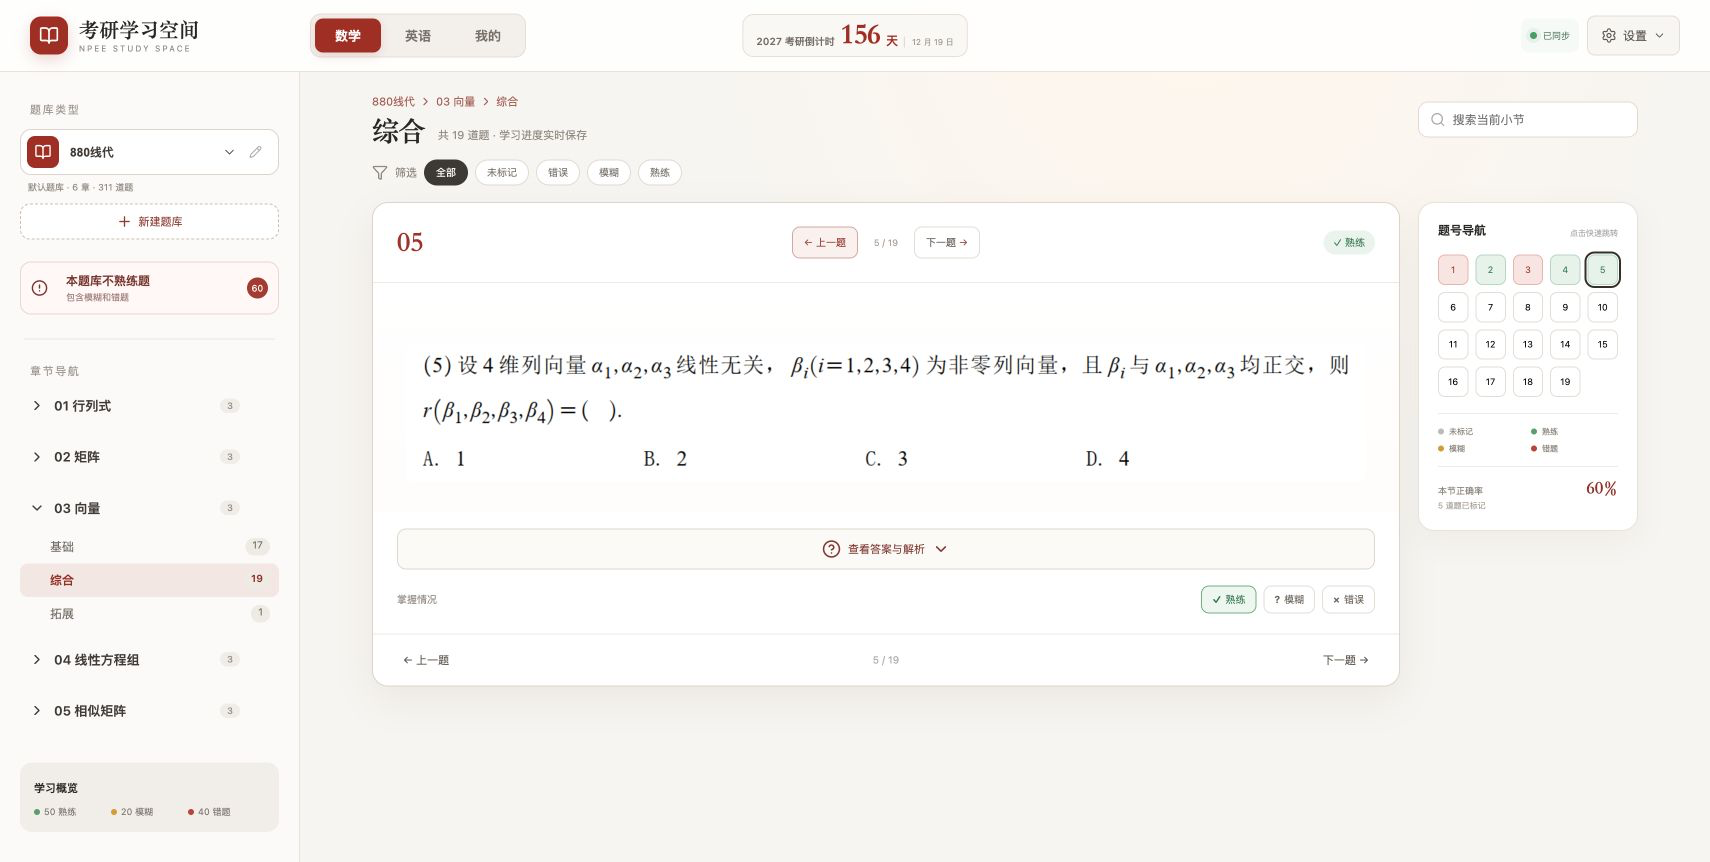
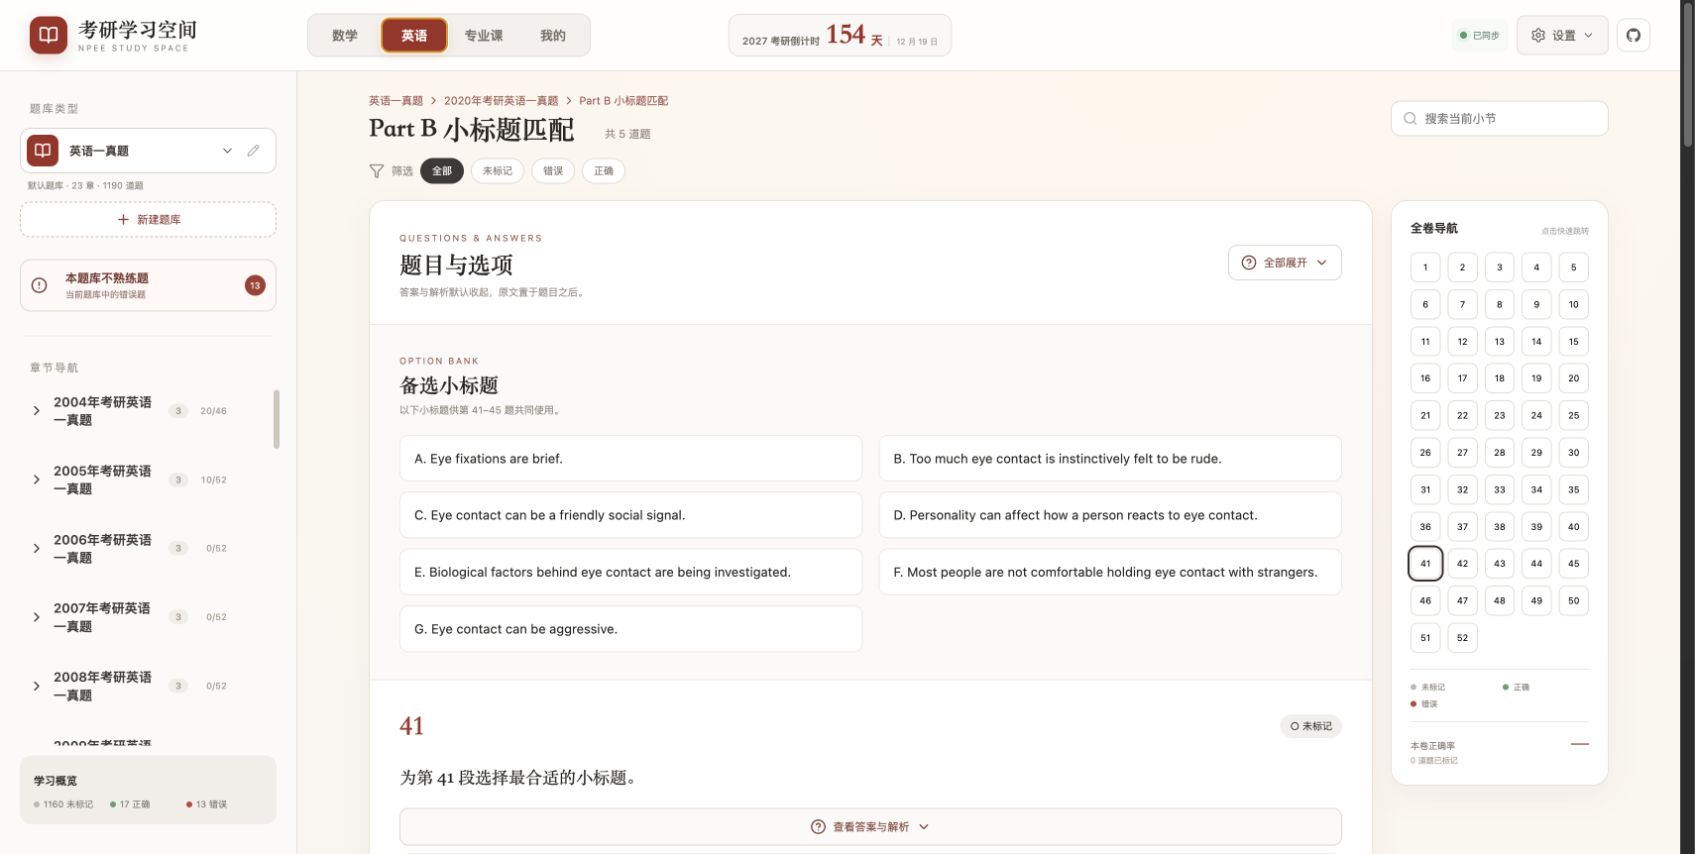
release: v0.3.0

diff --git a/README.md b/README.md
@@ -1,15 +1,24 @@
-# 考研学习空间
+# 考研学习空间 · NPEE Study Space
 
-本地优先的考研题库、错题复盘与学习进度工具。它把数学、专业课图片题库、2004–2026 年英语一真题、每日学习记录和多轮复习放在同一个界面中；无需注册账号，题库与学习数据默认保存在自己的电脑上。
+[![正式版](https://img.shields.io/github/v/release/EnderRayven/NPEElearningtool?display_name=tag&label=正式版&color=9f2e25)](https://github.com/EnderRayven/NPEElearningtool/releases/latest)
+[![构建状态](https://img.shields.io/github/actions/workflow/status/EnderRayven/NPEElearningtool/release.yml?label=发布包)](https://github.com/EnderRayven/NPEElearningtool/actions/workflows/release.yml)
+[![平台](https://img.shields.io/badge/平台-macOS%20%7C%20Windows-3d3935)](#下载与启动)
+
+一个本地优先、无需注册的考研题库、错题复盘与学习进度工具。它把数学、专业课图片题库、2004–2026 年英语一真题、每日学习记录、题目笔记和多轮复习放在同一个清爽界面中；题库与学习数据默认保存在自己的电脑上。
 
 当前默认内置 **17 个题库、6536 道题**。英语真题按“年份 → 题型”组织，数学和专业课图片题按“章节 → 小节 → 题号”组织；题库内容与个人学习记录分开存储，更新题库不会覆盖熟练度和复习历史。
 
-> 当前版本：**v0.2.4** · 本地优先 · 无需注册 · 支持 macOS / Windows · 推荐 Chrome / Edge
+> 当前正式版：**v0.3.0** · 本地优先 · 无需注册 · 支持 macOS / Windows · 推荐 Chrome / Edge
+
+[**下载 v0.3.0 完整包**](https://github.com/EnderRayven/NPEElearningtool/releases/download/v0.3.0/NPEE-Study-Space-v0.3.0-Full.zip) · [查看全部版本](https://github.com/EnderRayven/NPEElearningtool/releases) · [反馈问题](https://github.com/EnderRayven/NPEElearningtool/issues)
+
+完整包已包含应用、内置题库与 macOS/Windows 一键启动脚本。下载后解压，无需安装 Git 或克隆仓库。
 
 ## 快速导航
 
 - [界面预览](#界面预览)：查看学习、看板和复习界面
-- [开始使用](#启动)：一键启动或命令行启动
+- [下载与启动](#下载与启动)：下载完整包并一键启动
+- [v0.3.0 新内容](#v030-正式版)：查看本次正式版重点更新
 - [典型学习流程](#典型学习流程)：从选题库到多轮复习
 - [核心功能](#核心功能)：完整能力总览
 - [默认题库](#默认题库)：内置题库及题目数量
@@ -25,21 +34,64 @@
 - **长期进度跟踪：** 用日历查看每天做题量、正确率和待复盘数量，用多轮数据区分一刷、二刷。
 - **离线与隐私优先：** 不需要账号或云数据库，适合保存个人购买资料和学习记录。
 
+## v0.3.0 正式版
+
+- **题库更完整：** 默认提供 17 个题库、6536 道题，覆盖数学二、2004–2026 年英语一真题和机械专业课。
+- **学习闭环更清晰：** 从作答、答案解析、熟练度标记，到错题复盘、多轮复习和学习看板都在同一套界面完成。
+- **长线备考更可靠：** 题库内容与个人记录分离，支持本地工作区同步、完整 JSON 备份、题目笔记和每轮独立统计。
+- **英语体验升级：** 英语真题按年份与题型分组，阅读、完形和新题型采用更适合长文的排版与导航。
+- **发布体验统一：** Release、完整包和解压目录采用一致英文名称，避免中文路径或自动生成源码包造成的启动困扰。
+
+更完整的版本记录见 [`CHANGELOG.md`](./CHANGELOG.md)。
+
 ## 界面预览
 
-### 题目学习
+| 学习任务 | 主要入口 | 系统会记录什么 |
+| --- | --- | --- |
+| 刷数学或专业课图片题 | 顶部“数学 / 专业课”与左侧章节树 | 熟练度、答题日期、当前题号、题目笔记和复习记录 |
+| 做英语一历年真题 | 顶部“英语”与年份/题型分组 | 正确/错误状态、阅读题型、全卷进度和每日活动 |
+| 集中复盘错题 | 左侧“不熟练题”或“我的”页面 | 初始标记、每次复习结果、复习时间与间隔 |
+| 查看长期进度 | 顶部“我的” | 每日题量、正确率、待复盘数量以及题库/章节/小节进度 |
+| 迁移或维护数据 | 顶部“设置” | 独立用户数据、学习轮次、完整备份和本地工作区同步状态 |
+| 整理纸质练习 | 设置 → 导出题目 | 按范围、掌握状态和每页题数生成 PDF，或复制原图到文件夹 |
 
-章节导航、题号状态、答案解析和熟练度标记集中在一个学习界面，上一题/下一题切换不会打断当前进度。
+### 英语真题学习
+
+年份、题型、题目、备选项、原文、答案解析和全卷导航集中在一个学习界面；长文阅读、新题型与写作都保留适合真题的排版。
 
 ![题目学习界面](./docs/screenshots/question-study.png)
 
 图中主要区域：
 
-1. **左侧题库导航：** 切换题库、章节和小节，实时显示每节题量与题库掌握概览。
-2. **中间题目卡片：** 保留原题排版，支持单图、多图、文字选项和独立答案解析。
-3. **题目状态：** 用绿色、黄色、红色区分熟练、模糊和错误，再次点击当前状态即可撤销。
-4. **右侧题号导航：** 一眼查看整节完成情况，点击题号直接跳转，并显示当前小节正确率。
+1. **左侧年份与题型导航：** 按“年份 → Section → 题型”切换，实时显示每组已标记题量。
+2. **中间真题内容：** 保留原题排版，支持共享备选项、长文、单图、多图和独立答案解析。
+3. **题目状态：** 英语使用正确/错误两档，数学和专业课使用熟练/模糊/错误三档；再次点击即可撤销。
+4. **右侧全卷导航：** 一眼查看整张试卷 1–52 题状态，点击题号即可跨题型快速跳转。
 5. **搜索与筛选：** 可以只看未标记、错误、模糊或熟练题，也能搜索当前小节内容。
+
+### 数学与专业课图片题
+
+扫描题、讲义截图和多张解析图可以直接作为题目素材使用，不需要先做 OCR，也不必逐题重新排版。
+
+![数学图片题学习界面](./docs/screenshots/image-question-study.png)
+
+- 左侧按题库、章节和小节组织大量图片题，并在每一级显示已标记/总题数。
+- 中间题目区按原图比例自适应展示，兼容单张题图、一题多图、单张答案和多张解析。
+- 顶部与底部都提供上一题/下一题，长题看完后无需滚回页面顶部。
+- 右侧题号颜色对应未标记、熟练、模糊和错题，当前题使用描边强调。
+- 当前小节正确率只按已标记题目计算；再次点击已选状态可以撤销，避免误操作污染统计。
+
+### 题目笔记与手写
+
+每一道题都有独立笔记，不需要离开学习页切换到其他笔记软件；内容会跟随完整备份和工作区用户数据保存。
+
+![题目笔记界面](./docs/screenshots/question-notes.png)
+
+- **文字笔记：** 适合记录公式、易错点、解题顺序和下次复习提醒，输入后自动保存。
+- **手写笔记：** 支持画笔、橡皮、撤销、重做和清空，可放大到全屏书写。
+- **保存提示：** 按钮会显示“已保存”，笔记面板也会反馈自动保存状态。
+- **题目隔离：** 每题使用独立 ID 保存笔记，切换题库、章节或学习轮次不会串题。
+- **备份迁移：** 文字与矢量手写内容会进入完整 JSON 备份；原始题图仍按文件夹单独保存。
 
 ### 学习看板
 
@@ -69,6 +121,31 @@
 - 当天最新记录允许调整，历史日期记录只读，避免误改既往轨迹。
 - 默认预留 3 次复习；需要更多轮次时可以继续添加复习位。
 
+### 设置、同步与完整备份
+
+顶部“设置”把学习轮次、考试倒计时、题库连接、导入、导出和数据管理集中在一个面板中；右侧的小型 GitHub 图标可直接打开项目主页。
+
+![设置与数据管理](./docs/screenshots/settings-and-data.png)
+
+- **学习轮次：** 默认预设 5 轮，也可继续新增；每一轮的标记、活动与统计彼此独立。
+- **考试倒计时：** 可以覆盖默认考试日期，日期会写入独立用户设置并参与同步与备份。
+- **题库文件夹：** 重新同步当前工作区，或切换到另一套本地题库；题库内容与个人记录分开写入。
+- **导入与素材：** 支持载入 JSON 题库/完整备份，也能按统一命名批量匹配题图和答案图。
+- **完整备份：** 一次导出题库结构、全部轮次、熟练度、每日活动、复习时间线、设置与题目笔记。
+- **安全管理：** 清理标记、重置题库、删除自建题库和恢复出厂均提供明确的作用范围与确认步骤。
+
+### 按范围导出与打印
+
+导出窗口适合制作纸质错题集、阶段练习和章节复盘材料，筛选结果与预计页数会在导出前即时计算。
+
+![导出题目界面](./docs/screenshots/export-questions.png)
+
+- 依次选择题库、章、节和掌握状态，可只导出错题、模糊题、未标记题或熟练题。
+- 页面布局支持每页 1 题或 2 题，并在导出前显示“符合条件题数 / 预计页数”。
+- “导出 PDF”调用浏览器打印预览，可以继续选择打印机或另存为 PDF。
+- “复制原图到文件夹”适合把扫描题整理到独立目录，保留原始清晰度，不经过页面截图压缩。
+- 题图与答案图会等待加载完成后再进入打印流程，降低空白页或图片缺失的概率。
+
 ## 典型学习流程
 
 ```mermaid
@@ -91,12 +168,15 @@ flowchart LR
 4. 从章节进度中点击题号打开复习弹窗，把复习结果记录到独立时间线。
 5. 完成一轮后在设置中切换到下一学习轮次；旧轮次的标记和统计会完整保留。
 
-## 启动
+## 下载与启动
 
 ### 一键启动
 
-- macOS：双击 `一键启动.command`（自动配置 Homebrew、Node.js、pnpm 和项目依赖）
-- Windows：双击 `一键启动.bat`（通过 winget 自动配置 Node.js、pnpm 和项目依赖）
+1. 从 [v0.3.0 Release](https://github.com/EnderRayven/NPEElearningtool/releases/tag/v0.3.0) 下载 `NPEE-Study-Space-v0.3.0-Full.zip`。
+2. 完整解压到一个可长期保存的位置，不要直接在压缩包预览中运行。
+3. 按系统启动：
+   - macOS：双击 `一键启动.command`，自动配置 Homebrew、Node.js、pnpm 和项目依赖。
+   - Windows：双击 `一键启动.bat`，通过 winget 自动配置 Node.js、pnpm 和项目依赖。
 
 首次启动需要联网，macOS 安装 Homebrew 时可能要求输入系统密码。配置完成后会自动打开浏览器；以后双击通常可以直接启动。也可以使用命令行：
 
@@ -119,15 +199,16 @@ pnpm preview
 | 模块 | 能力 |
 | --- | --- |
 | 题库学习 | 多题库、章节、小节切换；选择题、填空题、解答题和多图题展示；题号导航与上下题切换 |
-| 掌握标记 | 熟练、模糊、错误三档标记；再次点击可取消；所有变化自动持久化 |
+| 英语真题 | 2004–2026 年英语一；年份/Section/题型分组；完形、阅读、新题型、翻译与写作专用排版；全卷 1–52 题导航 |
+| 掌握标记 | 数学和专业课使用熟练/模糊/错误三档，英语使用正确/错误两档；再次点击可取消；变化自动持久化 |
 | 分次复习 | 初始标记与复习次数分开计数；记录复习时间和间隔；当天最新复习可修改或取消 |
 | 题目笔记 | 每题支持自动保存的文字笔记与可编辑手写；手写可放大到全屏并使用画笔、橡皮、撤销和重做 |
 | 学习看板 | 每日学习日历、正确率、待复盘数量、题库/章节/小节进度与掌握分布 |
 | 错题复盘 | 跨题库汇总模糊与错误题；一键重练；掌握后自动移出当前复盘列表 |
-| 搜索筛选 | 当前小节全文搜索；按未标记、熟练、模糊、错误筛选 |
-| 图片题库 | 选择目录批量导入题目与答案图片；支持一题多图和重复导入覆盖 |
+| 搜索与位置恢复 | 当前小节全文搜索；按状态筛选；分别记住数学、英语、专业课上次学习的题库、章节、小节和题号 |
+| 图片题库 | 选择目录批量导入题目与答案图片；支持一题多图、无限分片、重复导入覆盖和默认工作区自动扫描 |
 | 导出打印 | 按题库/章/节/状态筛选；每页 1 或 2 题；打印、另存 PDF、复制原图 |
-| 数据管理 | 本地工作区同步、JSON 完整备份、多轮学习记录、题库与用户数据隔离 |
+| 数据管理 | 本地工作区同步、JSON 完整备份、考试倒计时、多轮学习记录、题库与用户数据隔离 |
 | 多端布局 | 桌面端完整双栏学习体验，平板与手机端自适应滚动和复习卡片布局 |
 
 ## 默认题库
@@ -330,3 +411,10 @@ pnpm preview      # 本地预览生产构建
 ```
 
 发布前建议至少运行 `pnpm test` 与 `pnpm build`，并在桌面和手机宽度下检查题目学习、答案展开、熟练度撤销、学习看板和复习弹窗。
+
+## 项目链接
+
+- GitHub 仓库：[EnderRayven/NPEElearningtool](https://github.com/EnderRayven/NPEElearningtool)
+- 最新正式版：[GitHub Releases](https://github.com/EnderRayven/NPEElearningtool/releases/latest)
+- 问题与建议：[GitHub Issues](https://github.com/EnderRayven/NPEElearningtool/issues)
+- 更新记录：[`CHANGELOG.md`](./CHANGELOG.md)

diff --git a/CHANGELOG.md b/CHANGELOG.md
@@ -1,0 +1,20 @@
+# 更新日志
+
+本项目遵循语义化版本号。完整下载包和每个版本的说明见 [GitHub Releases](https://github.com/EnderRayven/NPEElearningtool/releases)。
+
+## v0.3.0 · 正式版
+
+- 新增 2004–2026 年英语一真题，并按年份和题型优化侧栏导航。
+- 完善英语真题答案与解析，修复机械专业课题图、答案图和多图题显示。
+- 新增题目笔记、可编辑手写、多轮复习、学习日历与分层进度看板。
+- 完善图片题库导入、默认工作区同步、完整备份和题目导出体验。
+- 在应用顶部加入 GitHub 入口，更新界面截图、项目介绍与下载指引。
+- 正式发布统一命名的完整包 `NPEE-Study-Space-v0.3.0-Full.zip`，保留 macOS 与 Windows 一键启动入口。
+
+## v0.2.4
+
+- 优化学习看板、日历统计和题目复习记录。
+
+## v0.2.0
+
+- 建立本地优先的题库学习、熟练度标记、错题复盘和数据管理流程。